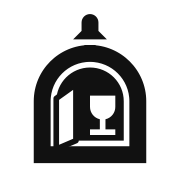
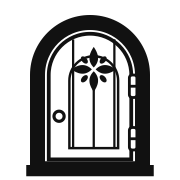
Add floral wine-window brand mark and interactive glass reveal

diff --git a/index.html b/index.html
@@ -8,12 +8,12 @@
   <meta property="og:title" content="Storia di Pasta — A little place. Good company.">
   <meta property="og:description" content="Il Cortile. La Sala. La Cantina. Il Patio. Find your corner on Sukhumvit Soi 33/1, Bangkok.">
   <meta property="og:type" content="website"><meta property="og:image" content="https://storiadipasta.com/images/exterior.jpg">
-  <link rel="canonical" href="https://storiadipasta.com/"><link rel="icon" href="/favicon.svg?v=wine-window" type="image/svg+xml"><link rel="icon" href="/favicon.ico" sizes="16x16 32x32"><link rel="apple-touch-icon" href="/apple-touch-icon.png">
+  <link rel="canonical" href="https://storiadipasta.com/"><link rel="icon" href="/favicon.svg?v=floral-window" type="image/svg+xml"><link rel="icon" href="/favicon.ico" sizes="16x16 32x32"><link rel="apple-touch-icon" href="/apple-touch-icon.png">
   <link rel="preload" href="/fonts/PaytoneOne-Regular.ttf" as="font" type="font/ttf" crossorigin>
 </head>
 <body>
 <a class="skip" href="#main">Skip to content</a>
-<header><a class="brand" href="#" aria-label="Storia di Pasta home"><img src="/images/logo.svg" alt="Storia di Pasta"></a><nav aria-label="Main navigation"><a href="#visit">Visit &amp; contact</a></nav></header>
+<header><div class="brand-lockup"><button class="window-toggle" type="button" aria-label="Open the wine window" aria-pressed="false" title="Open the wine window"><svg viewBox="0 0 80 96" aria-hidden="true" focusable="false"><path d="M16 86V40a24 24 0 0 1 48 0v46Z" fill="#111"/><g class="window-glass"><path d="M31 47h18l-1 10a8 8 0 0 1-7 7v10h7v3H32v-3h7V64a8 8 0 0 1-7-7Z" fill="#fff0da"/><path d="m33 54 1 4a6 6 0 0 0 12 0l.5-4Z" fill="#a64f3a"/></g><path fill="#111" fill-rule="evenodd" d="M8 88V40a32 32 0 0 1 64 0v48h2v6H6v-6zm8-2h48V40a24 24 0 0 0-48 0z"/><path d="M9 88h62" fill="none" stroke="#111" stroke-width="2"/><g class="window-door"><path d="M18 85V40a22 22 0 0 1 44 0v45Z" fill="#fff" stroke="#111" stroke-width="2"/><path d="M29 79V43a13 13 0 0 1 26 0v36Z" fill="none" stroke="#111" stroke-width="1.3"/><path d="M31 21v58m22-58v58M42 47v32" fill="none" stroke="#111" stroke-width="1.2"/><g fill="#111"><path d="M42 36c-4-4-2-8 0-11 2 3 4 7 0 11m0 2c4 4 2 8 0 11-2-3-4-7 0-11m-1-1c-4 4-8 2-11 0 3-2 7-4 11 0m2 0c4-4 8-2 11 0-3 2-7 4-11 0"/><ellipse cx="37" cy="32" rx="1.4" ry="2.3" transform="rotate(-42 37 32)"/><ellipse cx="47" cy="32" rx="1.4" ry="2.3" transform="rotate(42 47 32)"/><ellipse cx="37" cy="42" rx="1.4" ry="2.3" transform="rotate(42 37 42)"/><ellipse cx="47" cy="42" rx="1.4" ry="2.3" transform="rotate(-42 47 42)"/></g><circle cx="23.5" cy="62" r="2.7" fill="#fff" stroke="#111" stroke-width="1.7"/></g><g fill="#fff" stroke="#111" stroke-width="1.5"><rect x="61" y="40" width="4" height="12" rx="1.5"/><path d="M61 46h4"/><rect x="61" y="68" width="4" height="12" rx="1.5"/><path d="M61 74h4"/></g></svg><span class="window-cheer" aria-hidden="true">Cin cin!</span></button><a class="brand" href="#" aria-label="Storia di Pasta home"><img src="/images/logo.svg" alt="Storia di Pasta"></a></div><span class="sr-only" id="window-status" role="status"></span><nav aria-label="Main navigation"><a href="#visit">Visit &amp; contact</a></nav></header>
 <main id="main">
   <section class="hero">
     <img class="hero-photo" src="/images/exterior.jpg" alt="Friends gathering outside the warmly lit Storia di Pasta entrance and wine window" fetchpriority="high">

diff --git a/src/style.css b/src/style.css
@@ -10,3 +10,11 @@
 
 /* One clear header destination; the four signs provide zone navigation. */
 header nav{font-size:16px;font-weight:600;line-height:1.4}header nav a{display:inline-flex;align-items:center;min-height:48px;padding:10px 16px;border:1px solid #f4eddf55;border-radius:999px}header nav a:hover{background:#ffffff0d;text-decoration:none;border-color:#f4eddfaa}.hero-copy>p:not(.eyebrow){margin-bottom:0}@media(max-width:700px){header nav{font-size:14px}header nav a:first-child{display:inline-flex}header nav a{min-height:44px;padding:10px 13px}header{gap:16px}.hero-copy{padding-bottom:55px}}
+
+/* A small working version of the owner's floral wine-window mark. */
+.brand-lockup{display:flex;align-items:center;gap:18px;min-width:0}.window-toggle{position:relative;flex:0 0 52px;width:52px;height:60px;padding:3px 4px 5px;cursor:pointer;border:0;border-radius:11px;background:#fff;color:#111;perspective:350px;overflow:visible}.window-toggle>svg{width:100%;height:100%;overflow:visible}.window-toggle:focus-visible{outline:3px solid #e5c59a;outline-offset:5px}.window-toggle:hover{box-shadow:0 0 0 3px #f4eddf35}.window-door{transform-box:view-box;transform-origin:62px 52px;transition:transform .55s cubic-bezier(.25,.7,.25,1);backface-visibility:hidden}.window-glass{transform:translateY(12px) scale(.7);transform-origin:40px 70px;opacity:0;transition:transform .4s ease,opacity .2s ease}.window-toggle[aria-pressed=true] .window-door{transform:rotateY(-112deg)}.window-toggle[aria-pressed=true] .window-glass{transform:translateY(5px) scale(1.35);opacity:1;transition-delay:.2s}.window-cheer{position:absolute;z-index:5;left:50%;top:calc(100% + 10px);white-space:nowrap;padding:6px 13px;border-radius:20px;background:#f4eddf;color:#263d32;font:italic 17px Georgia,serif;box-shadow:0 3px 14px #0002;pointer-events:none;opacity:0;transform:translate(-50%,-4px);transition:opacity .2s,transform .2s}.window-toggle[aria-pressed=true] .window-cheer{opacity:1;transform:translate(-50%,0);transition-delay:.35s}.sr-only{position:absolute;width:1px;height:1px;padding:0;margin:-1px;overflow:hidden;clip:rect(0,0,0,0);white-space:nowrap;border:0}
+@media(max-width:700px){header{padding:16px 5%;gap:10px}.brand-lockup{gap:10px;flex:1}.brand-lockup .brand{width:150px;min-width:0}.window-toggle{flex-basis:44px;width:44px;height:52px;border-radius:9px}header nav{flex-shrink:0;font-size:13px}header nav a{padding:10px 12px}.window-cheer{left:0;transform:translate(0,-4px)}.window-toggle[aria-pressed=true] .window-cheer{transform:translate(0,0)}}
+@media(max-width:360px){.brand-lockup{gap:7px}.brand-lockup .brand{width:125px}header nav{font-size:12px}header nav a{padding:10px}.window-toggle{flex-basis:40px;width:40px;height:48px}}
+@media(prefers-reduced-motion:reduce){.window-door,.window-glass,.window-cheer{transition:none!important;transition-delay:0s!important}.window-toggle[aria-pressed=true] .window-door{visibility:hidden}.window-toggle[aria-pressed=true] .window-glass{transform:none}}
+
+header{position:relative;z-index:2}

diff --git a/src/main.js b/src/main.js
@@ -1,2 +1,11 @@
 import './style.css';
 document.querySelector('#year').textContent = new Date().getFullYear();
+
+const wineWindow = document.querySelector('.window-toggle');
+wineWindow.addEventListener('click', () => {
+  const open = wineWindow.getAttribute('aria-pressed') !== 'true';
+  wineWindow.setAttribute('aria-pressed', String(open));
+  wineWindow.setAttribute('aria-label', open ? 'Close the wine window' : 'Open the wine window');
+  wineWindow.title = open ? 'Close the wine window' : 'Open the wine window';
+  document.querySelector('#window-status').textContent = open ? 'Cin cin! A little glass from our wine window.' : 'The wine window is closed.';
+});
